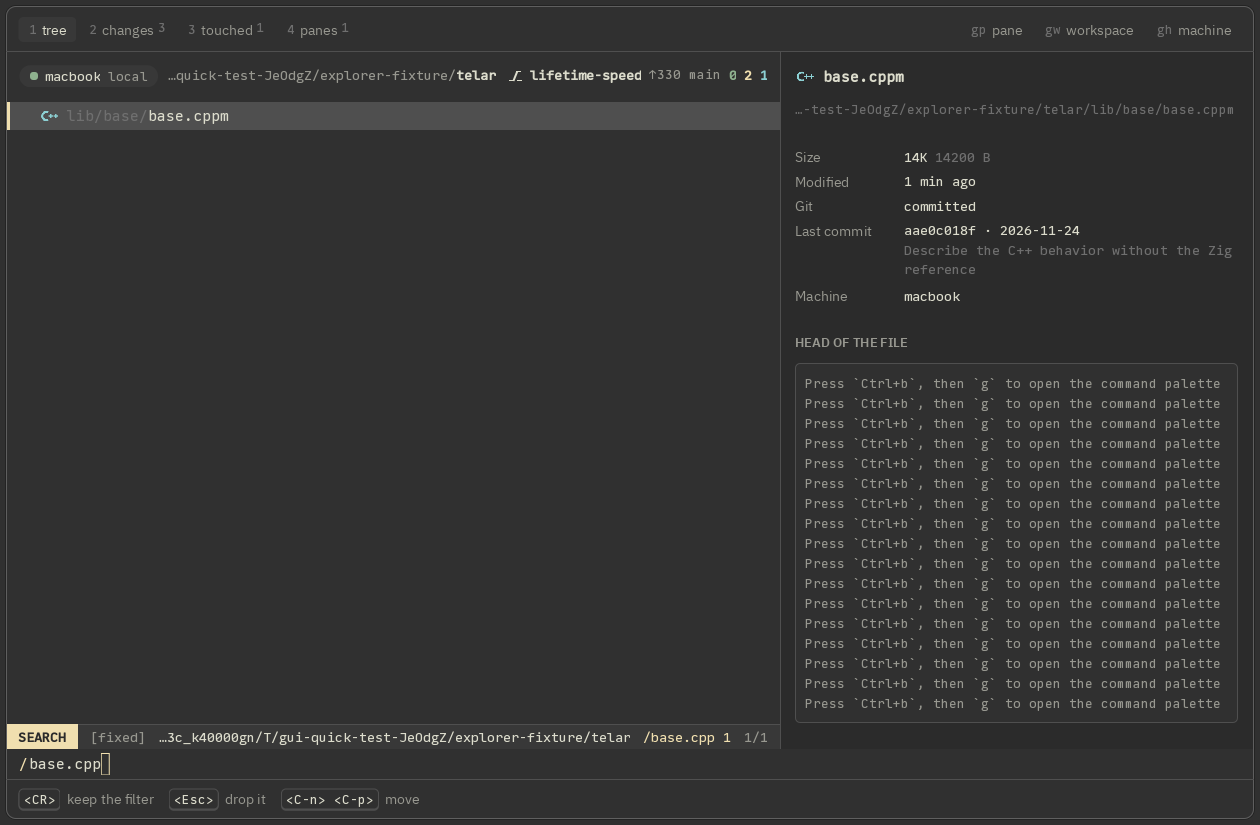
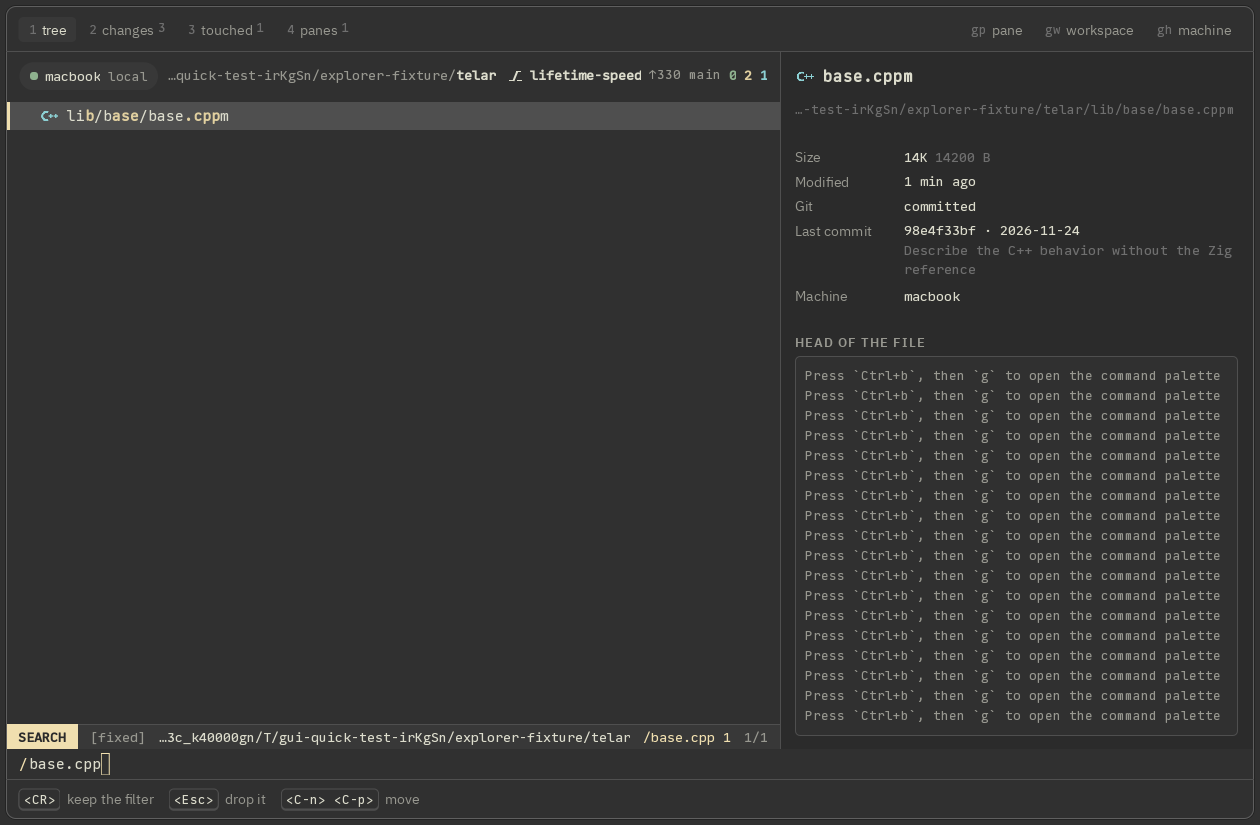
Take the explorer's pictures again, with its parts as the design sets them
The guide says of the letters a filter lights, of the help's sheet and of the
card a transfer has in the sidebar.

diff --git a/docs/explorer.md b/docs/explorer.md
@@ -13,7 +13,8 @@ Open it with the prefix and `o`, with **Open explorer** in the palette, or with
 
 It moves with Neovim's keys, and it changes files the way [oil.nvim](https://github.com/stevearc/oil.nvim)
 does: a rename, a new entry or a cut is a change typed on the listing, and nothing is written
-until `:w` shows the plan and you accept it. `?` lists every key.
+until `:w` shows the plan and you accept it. `?` lists every key, on a sheet over the windows
+that the wheel scrolls when it does not show whole.
 
 ## Move in the listing
 
@@ -49,7 +50,8 @@ what a hidden directory holds until `g.` lists it.
 
 `/` asks the runtime of the machine for the paths below the window's root that match what you
 type, with the search the path picker of `Ctrl+b` `f` uses: the letters in their order, wherever
-they are in the path. It reaches what the window never unfolded.
+they are in the path. It reaches what the window never unfolded, and each row shows the letters
+it was found by, lit where they stand in its path.
 
 ![A filter that found a file in a directory the window never unfolded](images/telar-explorer-filter.png)
 
@@ -435,8 +437,8 @@ other, 256 KiB at a time, and holds one such piece of it and no more.
 
 - A file that arrives shows as a row where it will be, with how much of it arrived, until
   its directory is read again. The status line of a window counts the files on their way to
-  or from its machine, and the sidebar lists them under TRANSFERS with their route, how much
-  arrived, the rate, and a control that cancels one.
+  or from its machine, and the sidebar lists them under TRANSFERS, a card each, with its route,
+  how much arrived, the rate, and `cancel` while it is on its way.
 - Two files travel at once and the rest wait their turn. A transfer goes on while the
   explorer is closed.
 - A directory is carried as its tree, as one transfer. Its own directory is made where it
